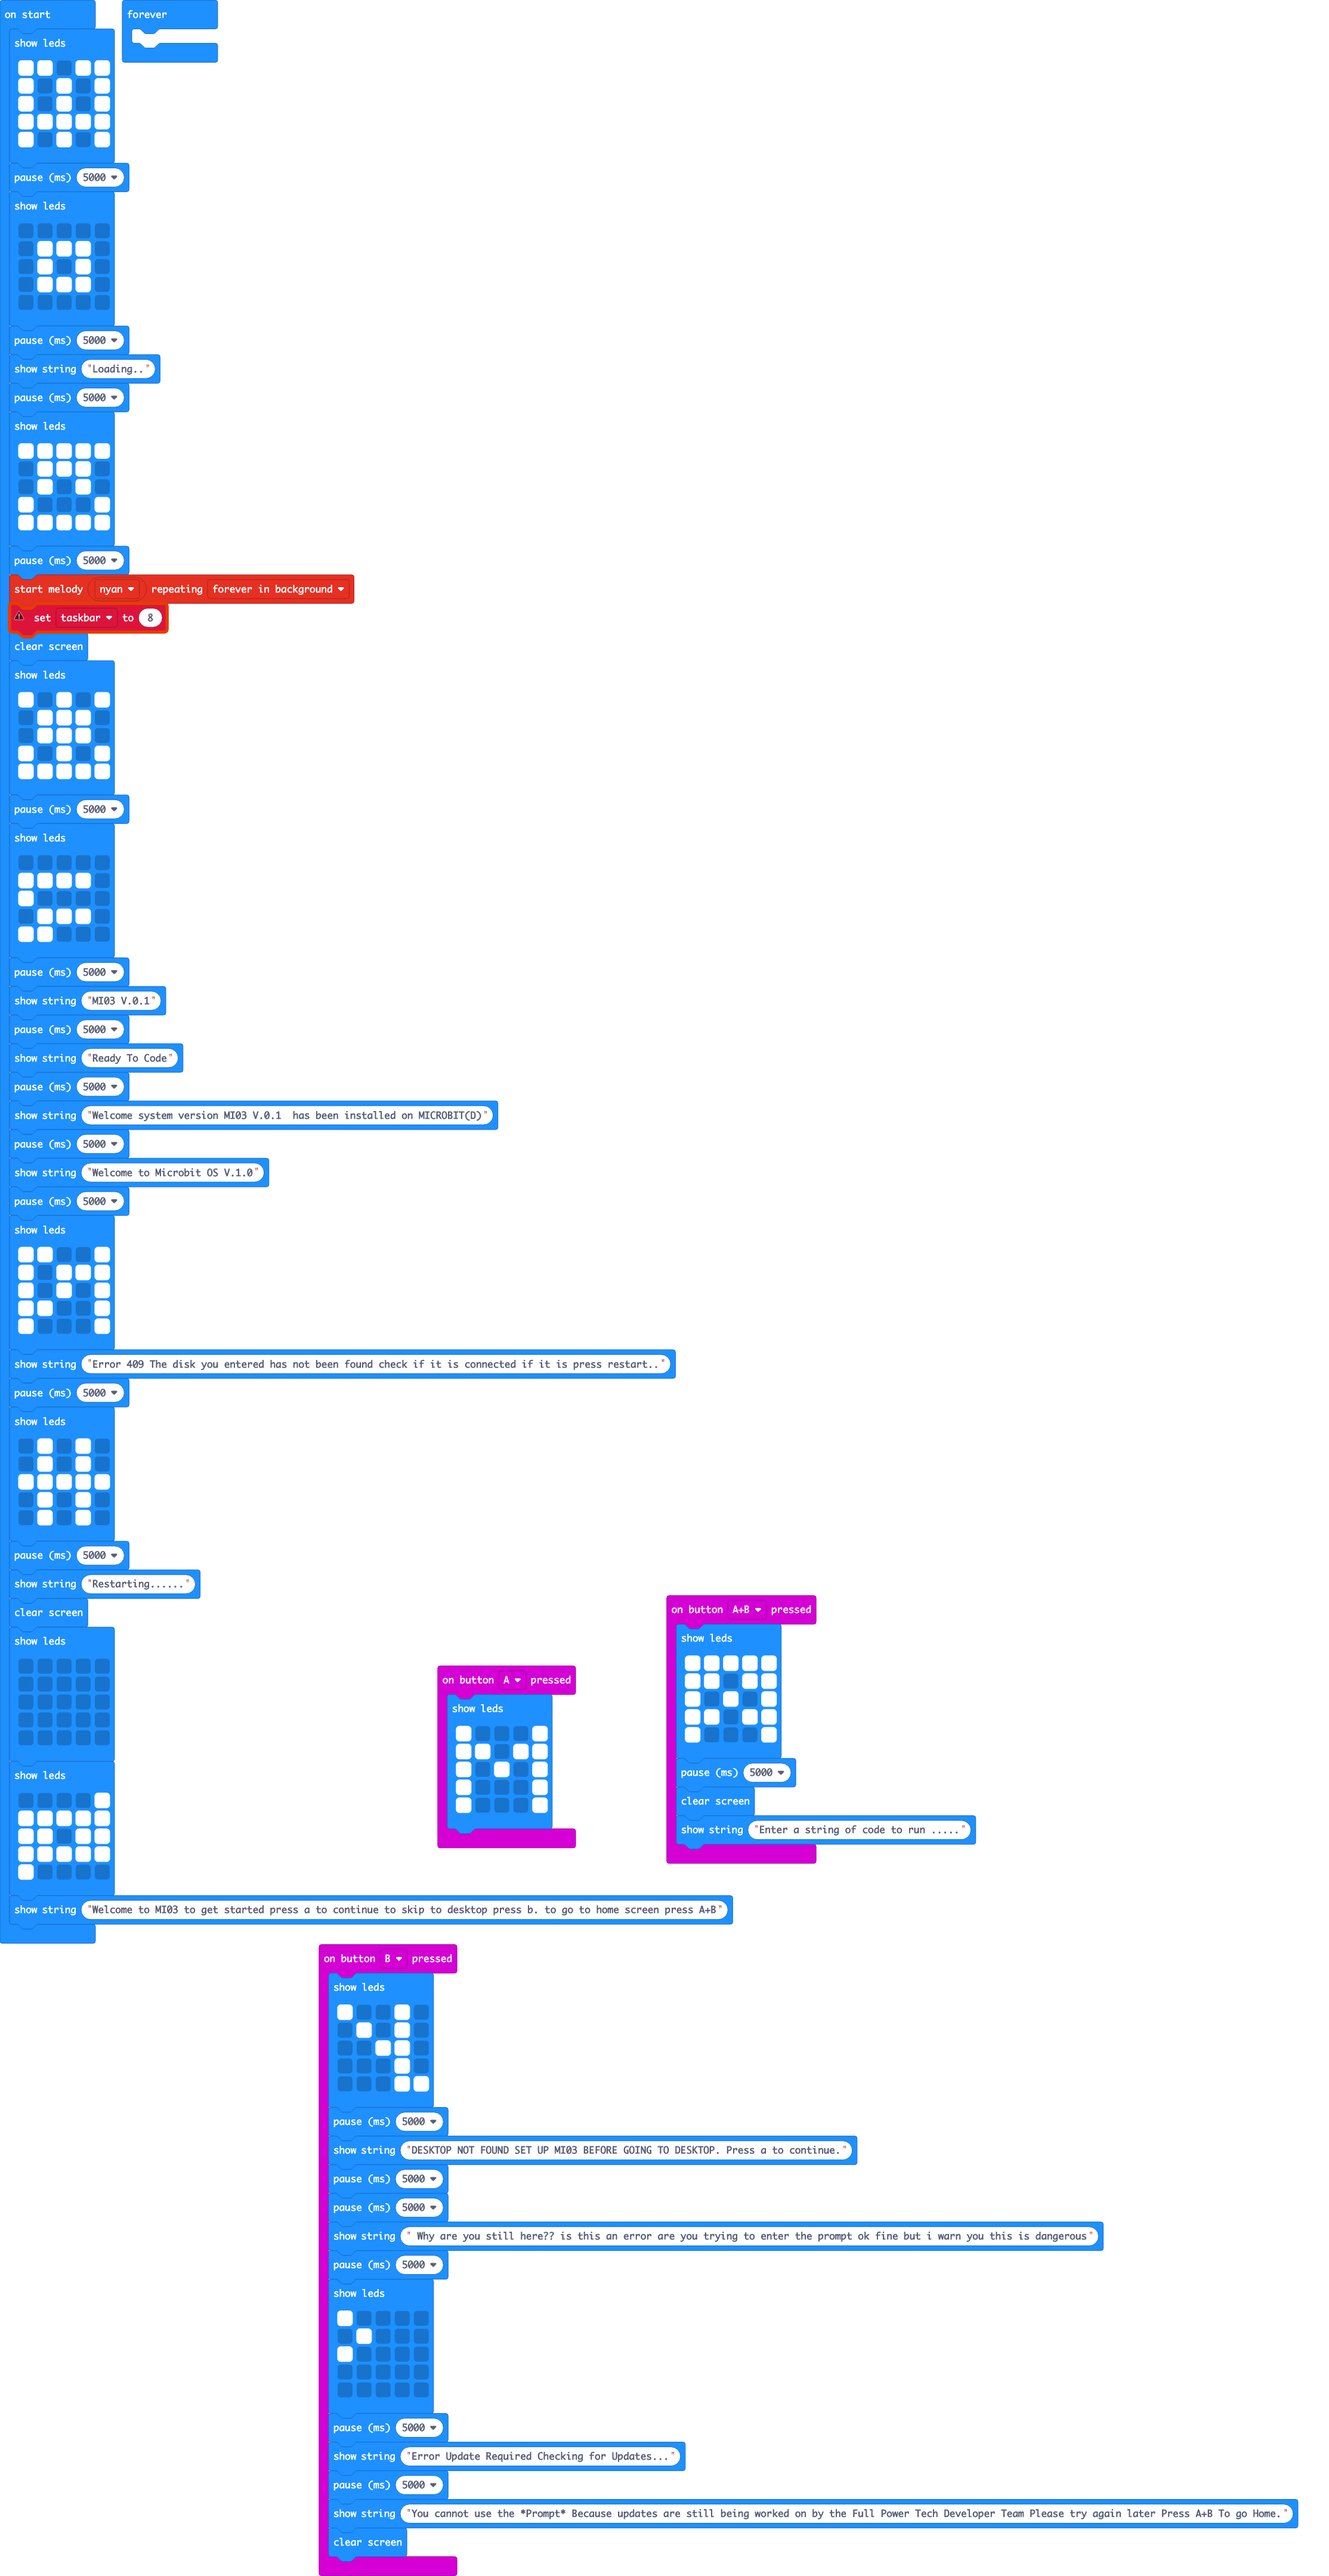
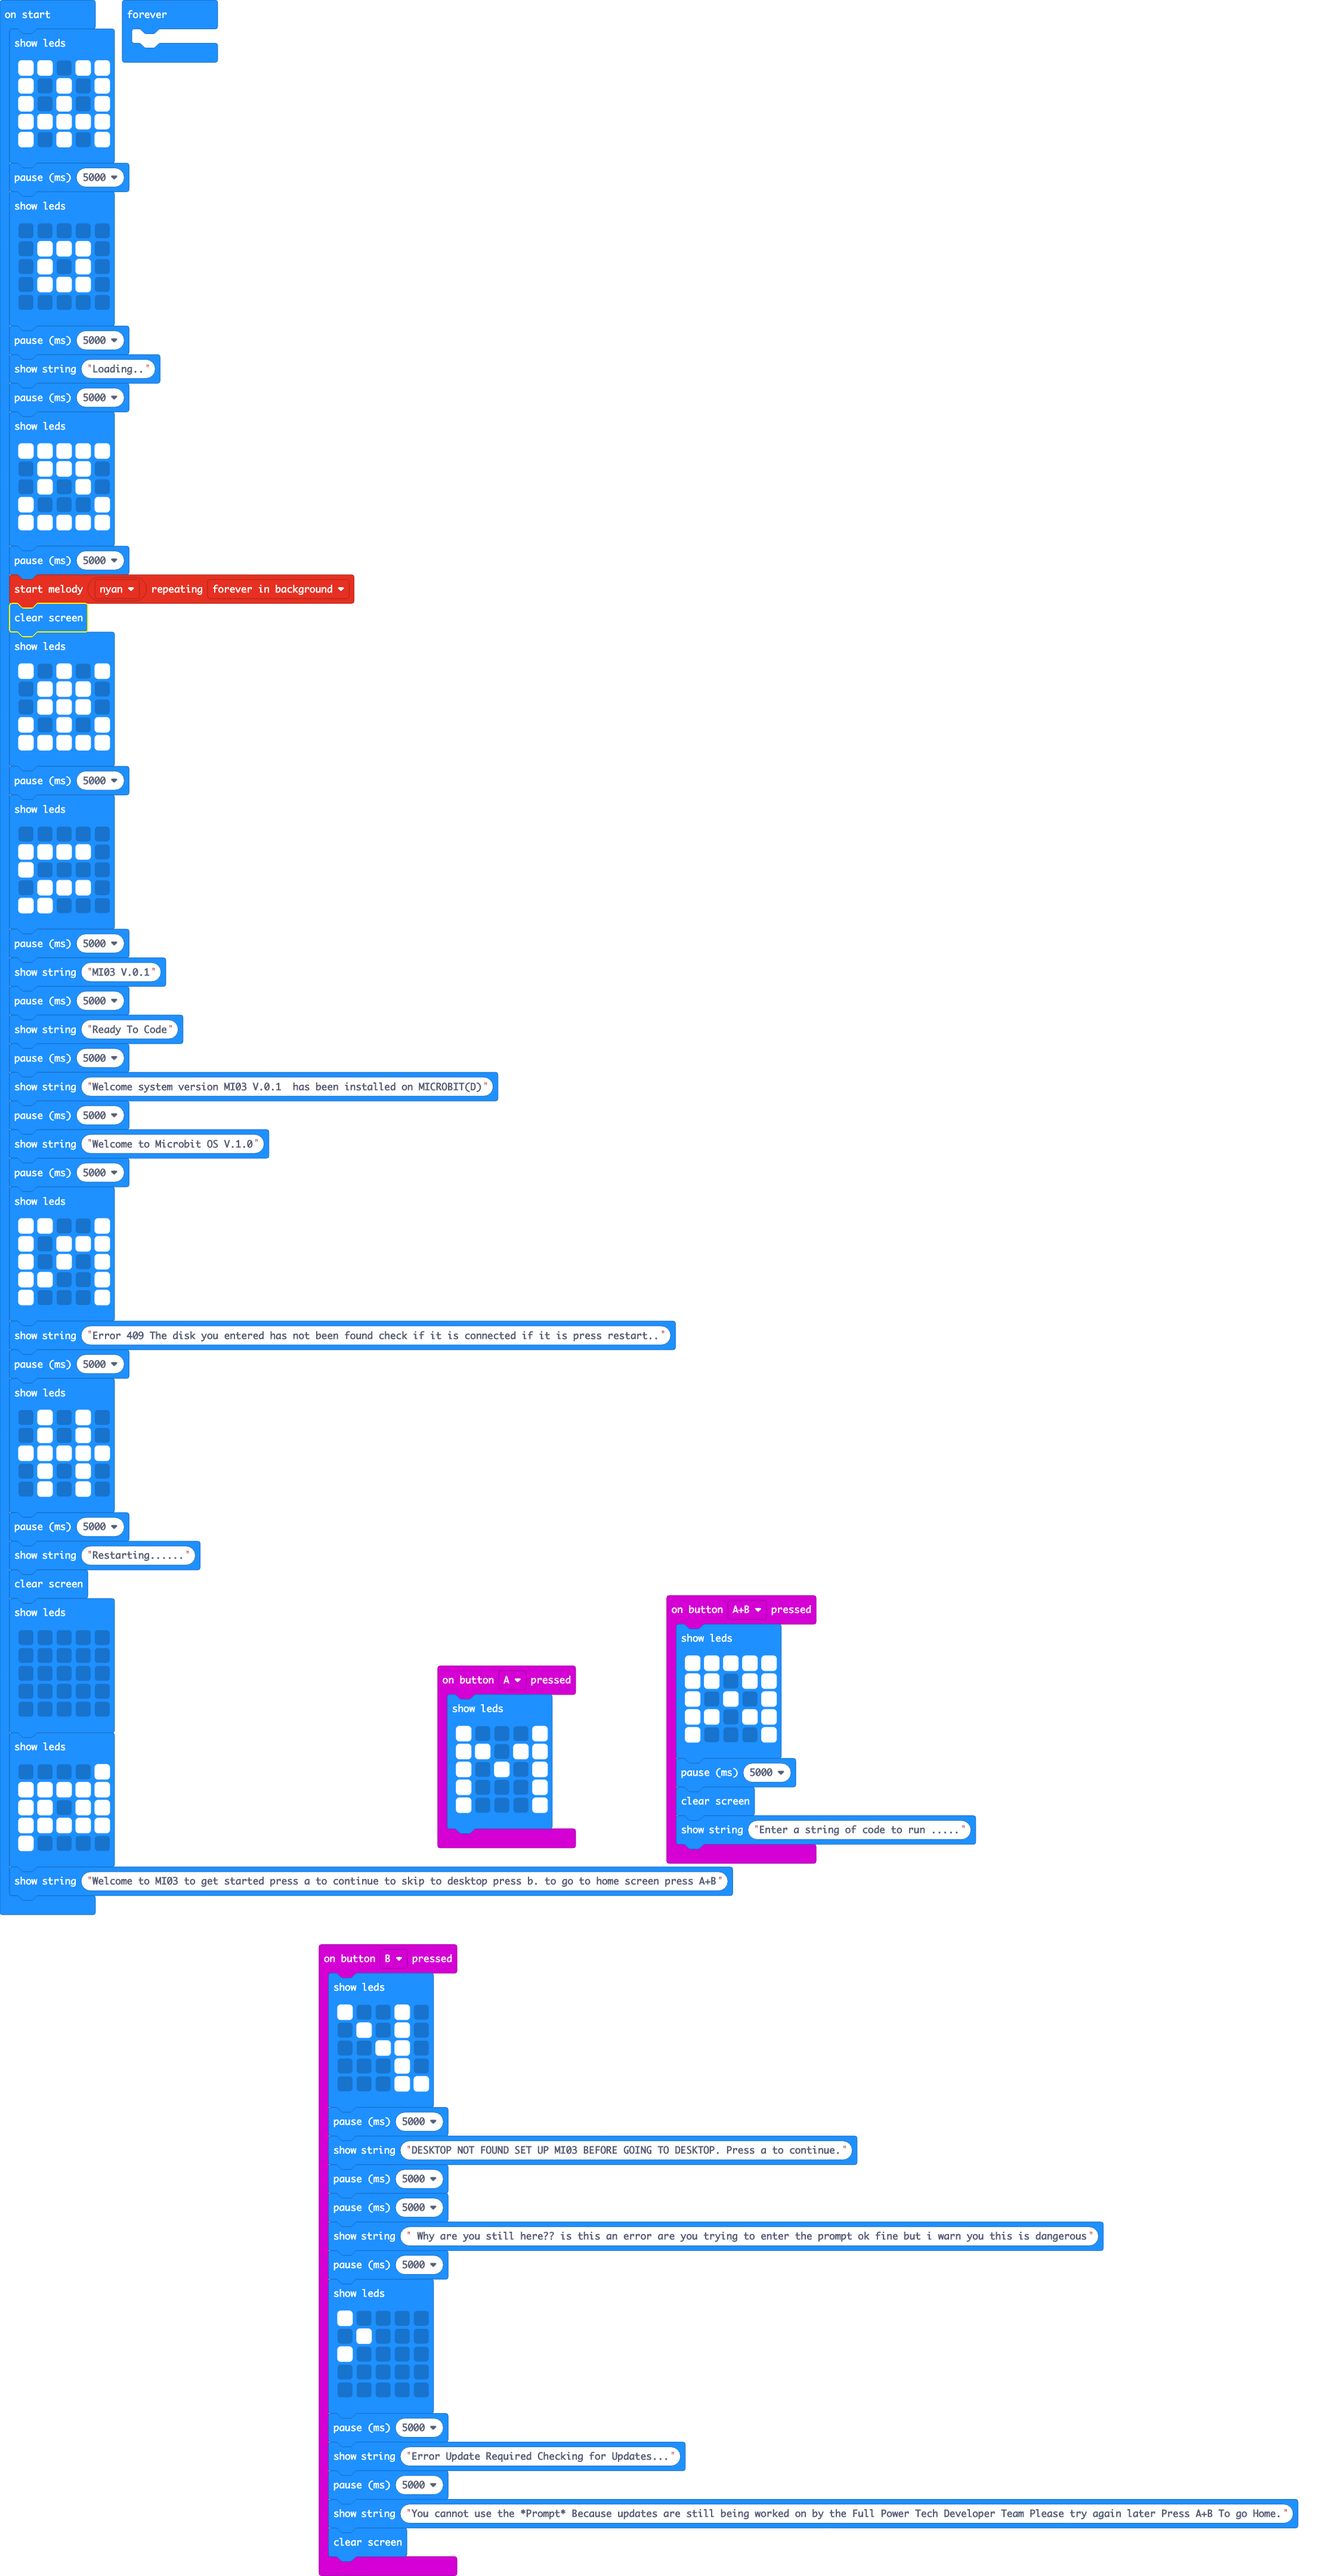
Removed Unesecary "Taskbar"

Changed region(s): [[0.0, 0.2173, 0.5575, 0.776]]

diff --git a/main.ts b/main.ts
@@ -73,7 +73,6 @@ basic.showLeds(`
     `)
 basic.pause(5000)
 music.startMelody(music.builtInMelody(Melodies.Nyan), MelodyOptions.ForeverInBackground)
-let taskbar = 8
 basic.clearScreen()
 basic.showLeds(`
     # . # . #
